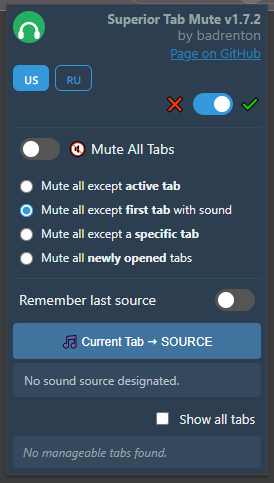
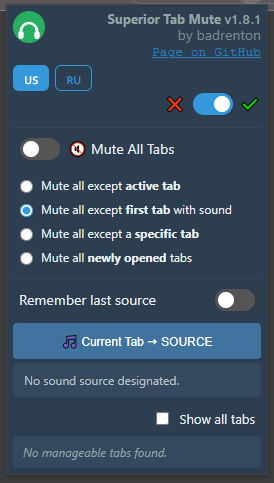
upd

Changed region(s): [[0.5547, 0.0932, 0.9635, 0.1242], [0.8175, 0.0311, 0.9635, 0.0621]]

diff --git a/popup.js b/popup.js
@@ -70,7 +70,7 @@ document.addEventListener('DOMContentLoaded', () => {
         document.querySelectorAll('[data-locale-title]').forEach(el => {
             el.title = getLocaleString(el.dataset.localeTitle);
         });
-        DOM.versionInfo.textContent = `${MANIFEST.name} v${MANIFEST.version}`;
+        DOM.versionInfo.innerHTML = `<strong>${MANIFEST.name}</strong> <span class="version-text">v${MANIFEST.version}</span>`;
         DOM.authorInfo.textContent = `${getLocaleString('by')} badrenton`;
         DOM.githubLink.textContent = getLocaleString('github');
     };
@@ -103,7 +103,7 @@ document.addEventListener('DOMContentLoaded', () => {
             const span = document.createElement('span');
             span.className = 'tab-list-title';
             span.textContent = tab.title || 'Untitled Tab';
-            span.title = tab.title || 'Untitled Tab'; // Add native tooltip for truncated titles
+            span.title = tab.title || 'Untitled Tab';
 
             titleWrapper.appendChild(span);
             li.append(img, titleWrapper);
@@ -141,7 +141,7 @@ document.addEventListener('DOMContentLoaded', () => {
         try {
             const tab = await chrome.tabs.get(firstAudibleTabId);
             DOM.soundSourceDisplay.innerHTML = `<img src="${tab.favIconUrl || 'icons/icon16.png'}" class="tab-list-icon" alt=""><span class="source-display-title">${getLocaleString('sourcePrefix')} ${tab.title}</span>`;
-            DOM.soundSourceDisplay.title = `${getLocaleString('sourcePrefix')} ${tab.title}`; // Add native tooltip
+            DOM.soundSourceDisplay.title = `${getLocaleString('sourcePrefix')} ${tab.title}`;
             DOM.soundSourceDisplay.classList.add('active');
         } catch (error) {
             DOM.soundSourceDisplay.textContent = getLocaleString('sourceClosed');

diff --git a/popup.css b/popup.css
@@ -134,6 +134,7 @@ input:checked+.slider:before {
     margin-left: 8px;
     font-size: 14px;
     color: var(--text-primary);
+    cursor: pointer;
 }
 
 .master-toggle-container {
@@ -145,6 +146,7 @@ input:checked+.slider:before {
 
 .master-toggle-icon {
     font-size: 16px;
+    cursor: default;
 }
 
 .master-toggle-container .toggle-switch {
@@ -284,7 +286,15 @@ h4 {
 #version-info {
     font-size: 13px;
     color: var(--text-muted);
-    font-weight: bold;
+}
+
+#version-info strong {
+    font-weight: 700;
+}
+
+#version-info .version-text {
+    font-weight: 500;
+    letter-spacing: 1px;
 }
 
 #author-info {
@@ -295,9 +305,9 @@ h4 {
 #github-link {
     font-size: 13px;
     color: #2980b9;
-    text-decoration: underline;
     margin-top: 2px;
     display: inline-block;
+    font-family: 'Courier New', Courier, monospace;
 }
 
 .show-all-tabs-label {
